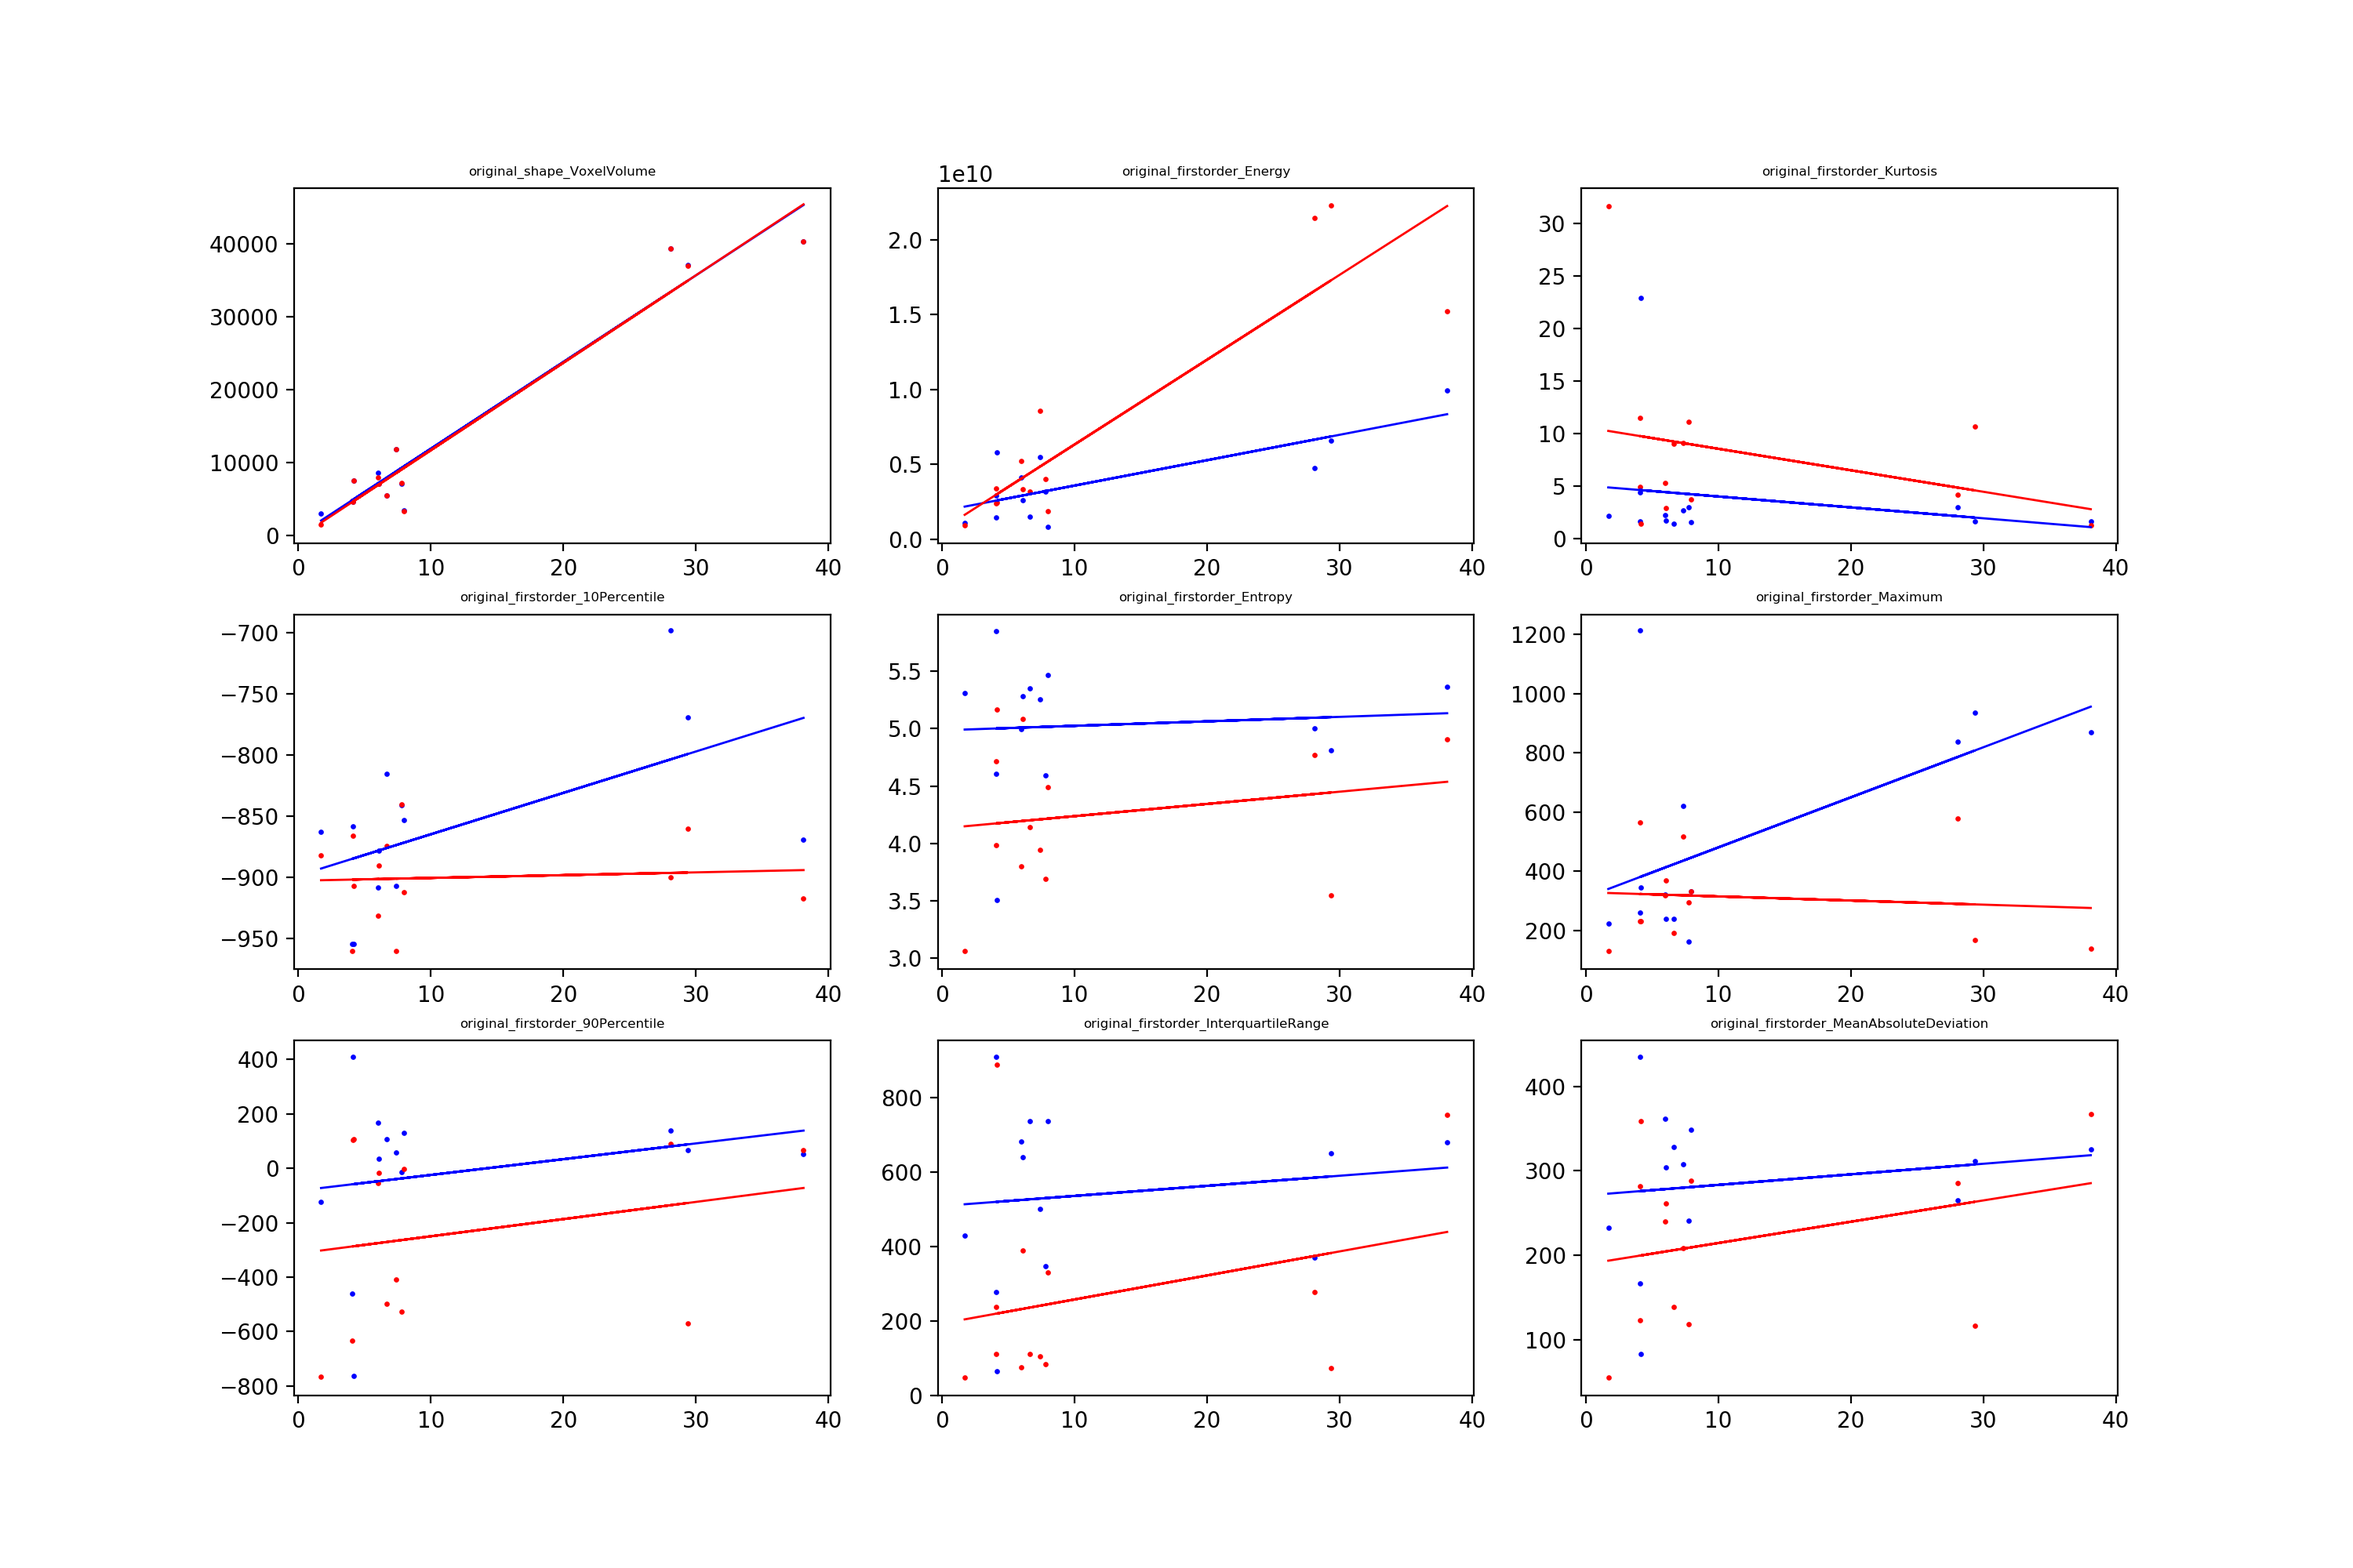
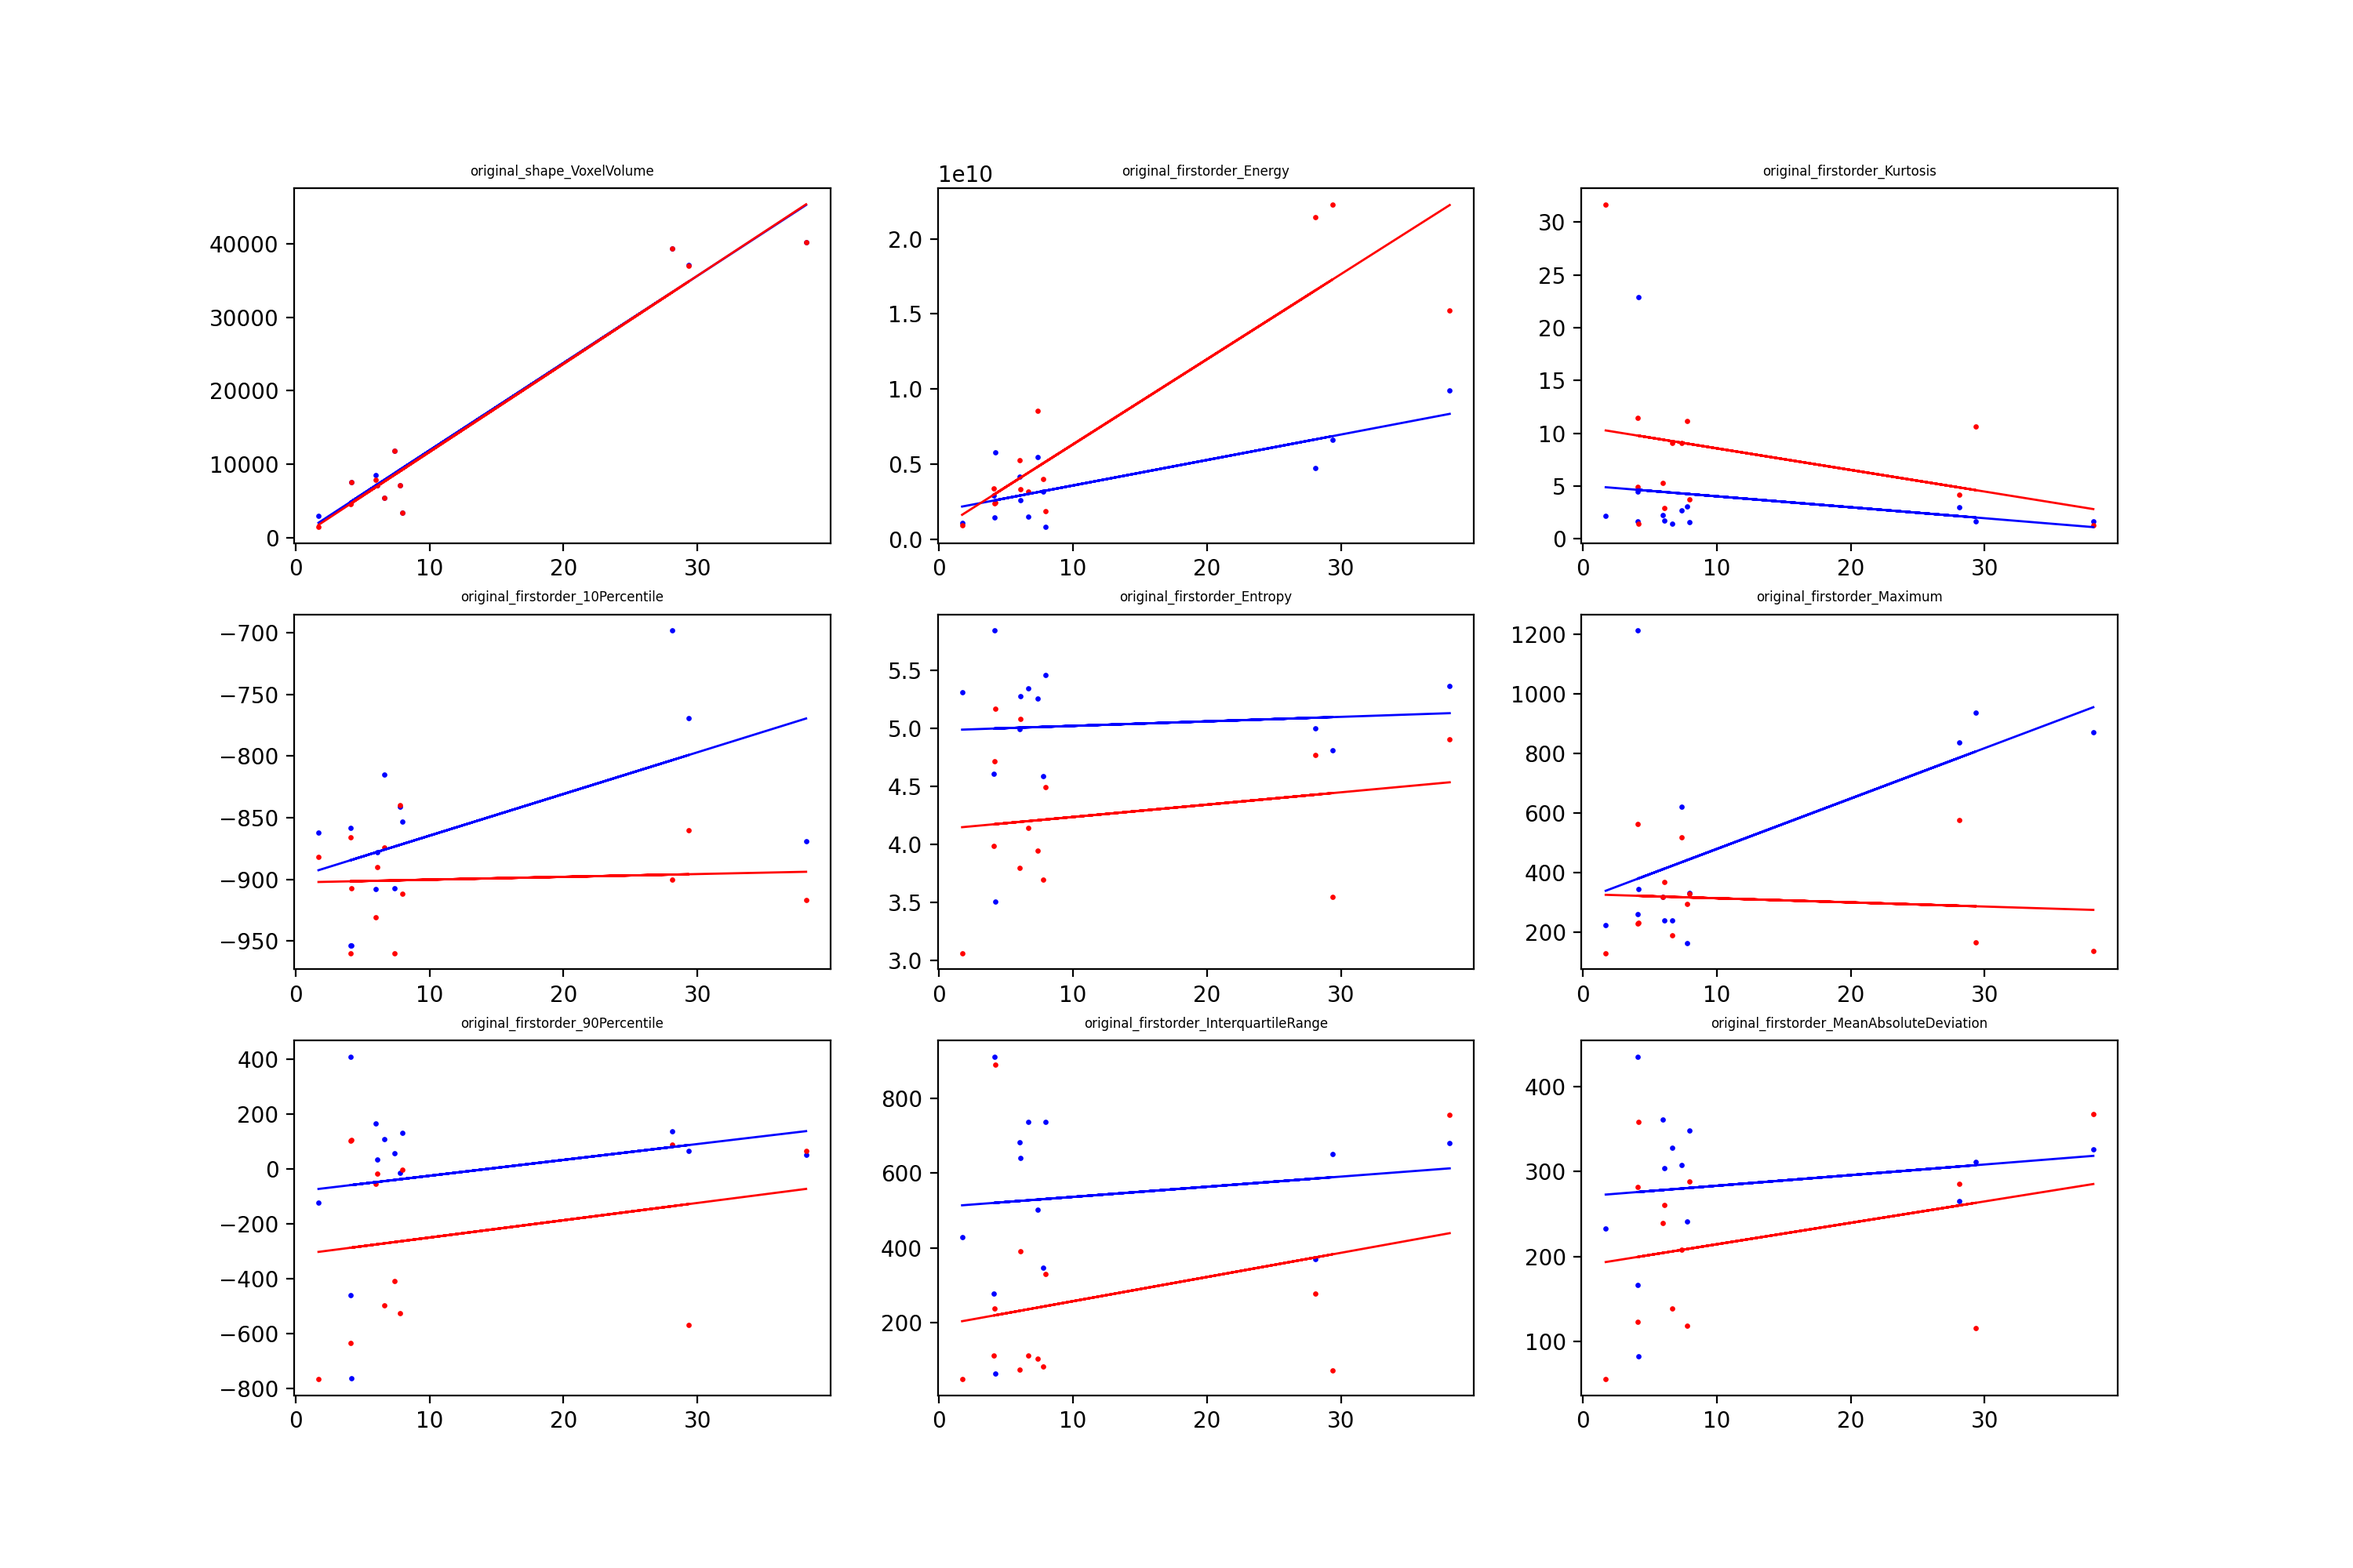
Small changes

diff --git a/analyze/PTV_viewer.py b/analyze/PTV_viewer.py
@@ -1,27 +1,28 @@
-import matplotlib.pyplot as plt
+import matplotlib.pyplot as plt
 import pandas as pd
 import datetime as dt
 import numpy as np
 
 FilePath="/nv/vol141/phys_nrf/Emery/dataset/"
-
+#I had written that CT has some missing data, not sure if that was fixed but they look alright now
+#BJ data appears to be bad, I'm including them for now to avoid cherry-picking patients
+#MK is missing some data
+blacklist=["DA","MK","MJ","BB"]
 dates=pd.read_csv(FilePath+"Dates.csv")
 patients=list(dates.columns)
-#TODO find out why last pre_negative is missing
-#patients.remove("CT")
-patients.remove("DA")
-#Looks like some of this data might be bad
-#patients.remove("BJ")
-patients.remove("MK")
+for i in blacklist:
+    if i in patients:
+        patients.remove(i)
+
 
 d={p:[dt.datetime.strptime(i,"%m/%d/%y") for i in dates[p] 
       if type(i)==type("")] for p in patients}
 d={p:[(d[p][0]-i).days for i in d[p]] for p in d}
 
 
-ITV={p:pd.read_csv(FilePath+p+"/ITV.csv") for p in patients}
+#ITV={p:pd.read_csv(FilePath+p+"/ITV.csv") for p in patients}
 PTV={p:pd.read_csv(FilePath+p+"/PTV.csv") for p in patients}
-Random_ITV={p:pd.read_csv(FilePath+p+"/R_ITV.csv") for p in patients}
+#Random_ITV={p:pd.read_csv(FilePath+p+"/R_ITV.csv") for p in patients}
 Random_PTV={p:pd.read_csv(FilePath+p+"/R_PTV.csv") for p in patients}
 
 keys=[]
@@ -31,11 +32,13 @@ for i in PTV[patients[0]].index:
         keys.append(i)
     except:
         continue
+print("Examining",len(keys),"features.")
+print("Patients:",len(patients))
+print("Timesteps:",sum([len(d[p]) for p in patients]))
 
 PTVdata={}
 RPTVdata={}
 for k in keys:
-    #print(ITV[patients[0]]["Unnamed: 0"][k])
     X,y=[],[]
     for p in patients:
         X+=d[p]
@@ -60,13 +63,7 @@ for k in keys:
 c=0
 square=3
 for i in keys:
-    #try:
-    #    val=float(ITV["Pre"][i])
-    #except:
-    #    print("Bad Key!")
-    #    continue
     if c==0:
-        #plt.figure()
         fig, axis = plt.subplots(square, square)
         
     axis[c%square][c//square].scatter(PTVdata[i][0],PTVdata[i][1], s=2, c='b')
@@ -77,18 +74,10 @@ for i in keys:
     fit=np.polyfit(RPTVdata[i][0], RPTVdata[i][1], 1)
     p=np.poly1d(fit)
     axis[c%square][c//square].plot(RPTVdata[i][0], p(RPTVdata[i][0]), "r", linewidth=1)
-    #vals=[float(j) for j in ITV.iloc[i][1:]]
-    #axis[c%4][c//4].plot(X, vals)
-    #vals=[float(j) for j in PTV.iloc[i][1:]]
-    #axis[c%4][c//4].plot(X, vals)
-    #vals=[float(j) for j in Random_ITV.iloc[i][1:]]
-    #axis[c%4][c//4].plot(X, vals)
-    #vals=[float(j) for j in Random_PTV.iloc[i][1::]]
-    #axis[c%4][c//4].plot(X, vals)
     axis[c%square][c//square].set_title(PTV[patients[0]]["Unnamed: 0"][i], fontsize=6)
     c+=1
 
     if c==square**2:
-        axis[2][2].legend(["PTV","R_PTV","PTV","R_PTV"],bbox_to_anchor=(1.3,3.8),loc='best')
+        #axis[2][2].legend(["ITV","R_ITV","ITV","R_ITV"],bbox_to_anchor=(1.3,3.8),loc='best')
         c=0
 plt.show()

diff --git a/analyze/Vol_ITV.py b/analyze/Vol_ITV.py
@@ -24,6 +24,10 @@ patients=list(dates.columns)
 patients.remove("DA")
 #Looks like some of this data might be bad
 patients.remove("BJ")
+#Just go with it
+patients.remove("MJ")
+patients.remove("BB")
+patients.remove("SJ")
 
 d={p:[dt.datetime.strptime(i,"%m/%d/%y") for i in dates[p] 
       if type(i)==type("")] for p in patients}

diff --git a/analyze/Time_Plot.py b/analyze/Time_Plot.py
@@ -12,7 +12,7 @@ FilePath="/nv/vol141/phys_nrf/Emery/dataset/"
 
 dates=pd.read_csv(FilePath+"Dates.csv")
 patients=list(dates.columns)
-blacklist=["DA","MK","MJ"]
+blacklist=["DA","MK","MJ","BB"]
 for i in blacklist:
     if i in patients:
         patients.remove(i)

diff --git a/analyze/Stats1_PTV.py b/analyze/Stats1_PTV.py
@@ -7,7 +7,7 @@ FilePath="/nv/vol141/phys_nrf/Emery/dataset/"
 
 dates=pd.read_csv(FilePath+"Dates.csv")
 patients=list(dates.columns)
-blacklist=["DA","MK","MJ"]
+blacklist=["DA","MK","MJ","BB"]
 for i in blacklist:
     if i in patients:
         patients.remove(i)
